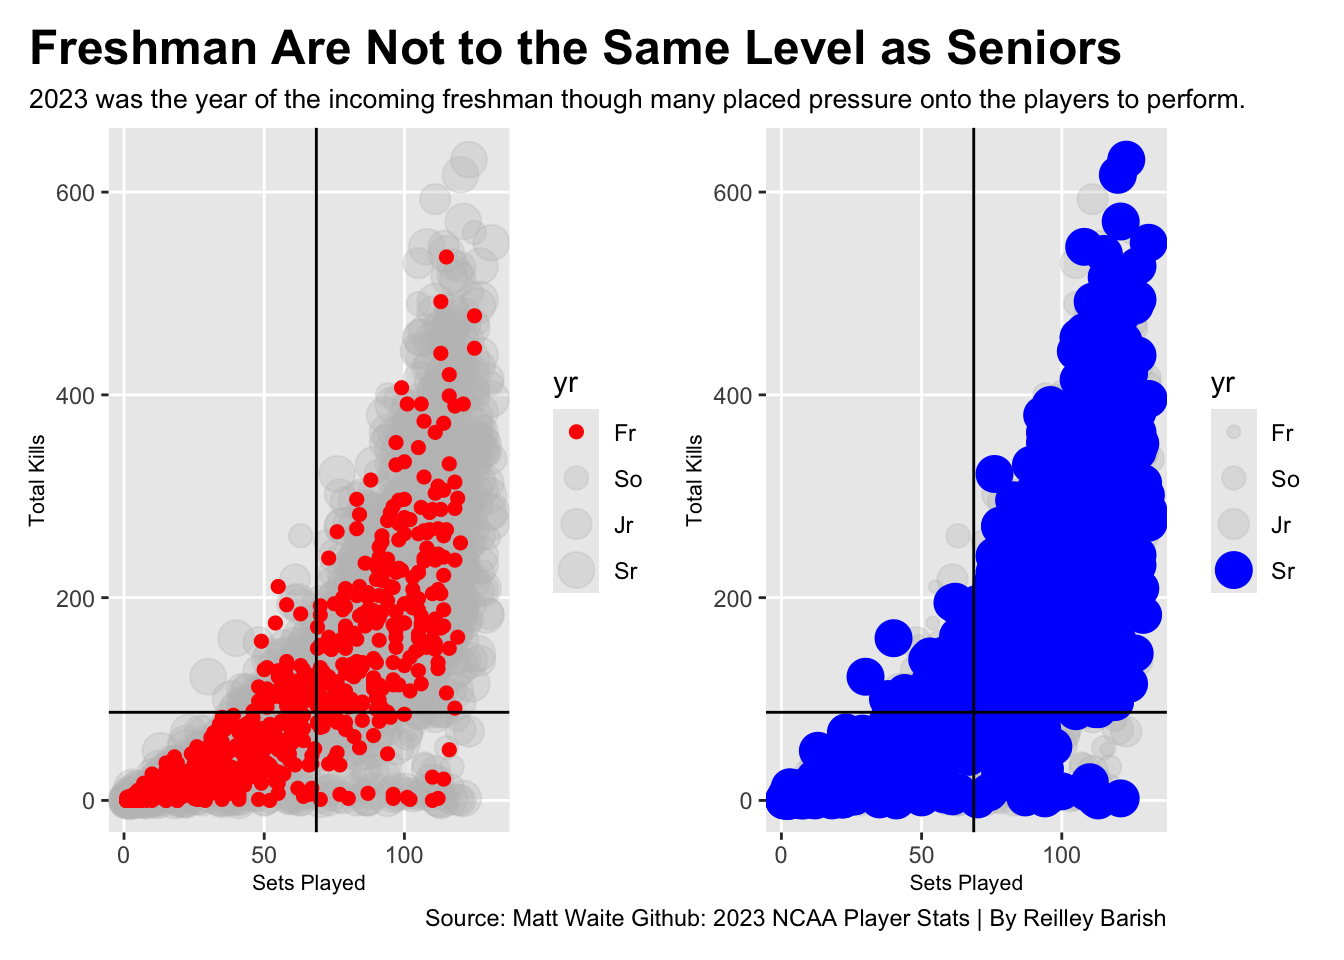
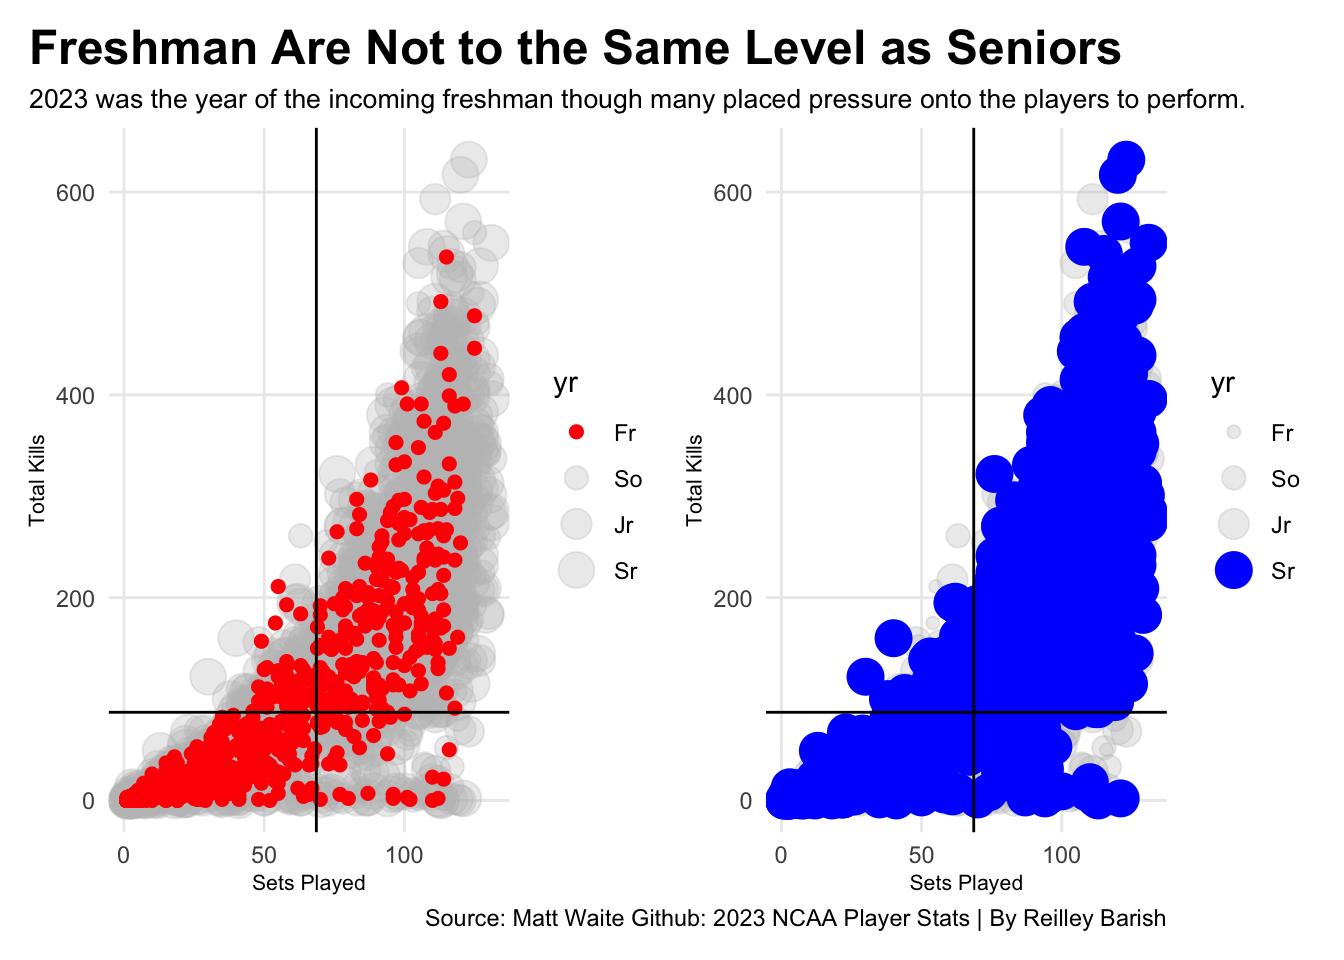
image commit

diff --git a/posts/volleyball-players-2023-kills/index.html b/posts/volleyball-players-2023-kills/index.html
@@ -365,28 +365,30 @@ pre > code.sourceCode > span > a:first-child::before { text-decoration: underlin
 <span id="cb4-17"><a href="#cb4-17" aria-hidden="true" tabindex="-1"></a>    <span class="at">title =</span> <span class="st">"Freshman Are Not to the Same Level as Seniors "</span>,</span>
 <span id="cb4-18"><a href="#cb4-18" aria-hidden="true" tabindex="-1"></a>    <span class="at">subtitle =</span> <span class="st">"2023 was the year of the incoming freshman though many placed pressure onto the players to perform."</span></span>
 <span id="cb4-19"><a href="#cb4-19" aria-hidden="true" tabindex="-1"></a>  ) <span class="sc">+</span></span>
-<span id="cb4-20"><a href="#cb4-20" aria-hidden="true" tabindex="-1"></a>  custheme</span>
-<span id="cb4-21"><a href="#cb4-21" aria-hidden="true" tabindex="-1"></a></span>
-<span id="cb4-22"><a href="#cb4-22" aria-hidden="true" tabindex="-1"></a>bc2<span class="ot">&lt;-</span><span class="fu">ggplot</span>() <span class="sc">+</span> </span>
-<span id="cb4-23"><a href="#cb4-23" aria-hidden="true" tabindex="-1"></a>  <span class="fu">geom_point</span>(</span>
-<span id="cb4-24"><a href="#cb4-24" aria-hidden="true" tabindex="-1"></a>    <span class="at">data=</span>year,</span>
-<span id="cb4-25"><a href="#cb4-25" aria-hidden="true" tabindex="-1"></a>    <span class="fu">aes</span>(<span class="at">x=</span>s, <span class="at">y=</span>kills, <span class="at">size=</span>yr), </span>
-<span id="cb4-26"><a href="#cb4-26" aria-hidden="true" tabindex="-1"></a>    <span class="at">color=</span><span class="st">"grey"</span>, </span>
-<span id="cb4-27"><a href="#cb4-27" aria-hidden="true" tabindex="-1"></a>    <span class="at">alpha=</span>.<span class="dv">3</span>)<span class="sc">+</span></span>
-<span id="cb4-28"><a href="#cb4-28" aria-hidden="true" tabindex="-1"></a>  <span class="fu">geom_point</span>(</span>
-<span id="cb4-29"><a href="#cb4-29" aria-hidden="true" tabindex="-1"></a>    <span class="at">data =</span> seniors,</span>
-<span id="cb4-30"><a href="#cb4-30" aria-hidden="true" tabindex="-1"></a>    <span class="fu">aes</span>(<span class="at">x =</span> s, <span class="at">y =</span> kills, <span class="at">size =</span> yr),</span>
-<span id="cb4-31"><a href="#cb4-31" aria-hidden="true" tabindex="-1"></a>    <span class="at">color =</span> <span class="st">"blue"</span></span>
-<span id="cb4-32"><a href="#cb4-32" aria-hidden="true" tabindex="-1"></a>  ) <span class="sc">+</span></span>
-<span id="cb4-33"><a href="#cb4-33" aria-hidden="true" tabindex="-1"></a>   <span class="fu">geom_vline</span>(<span class="at">xintercept =</span> <span class="fl">68.59631</span>) <span class="sc">+</span></span>
-<span id="cb4-34"><a href="#cb4-34" aria-hidden="true" tabindex="-1"></a>   <span class="fu">geom_hline</span>(<span class="at">yintercept =</span> <span class="fl">86.94779</span>) <span class="sc">+</span></span>
-<span id="cb4-35"><a href="#cb4-35" aria-hidden="true" tabindex="-1"></a>  <span class="fu">labs</span>(</span>
-<span id="cb4-36"><a href="#cb4-36" aria-hidden="true" tabindex="-1"></a>    <span class="at">x =</span> <span class="st">"Sets Played"</span>,</span>
-<span id="cb4-37"><a href="#cb4-37" aria-hidden="true" tabindex="-1"></a>    <span class="at">y =</span> <span class="st">"Total Kills"</span>,</span>
-<span id="cb4-38"><a href="#cb4-38" aria-hidden="true" tabindex="-1"></a>    <span class="at">caption =</span> <span class="st">"Source: Matt Waite Github: 2023 NCAA Player Stats | By Reilley Barish"</span>)<span class="sc">+</span></span>
-<span id="cb4-39"><a href="#cb4-39" aria-hidden="true" tabindex="-1"></a>  custheme</span>
-<span id="cb4-40"><a href="#cb4-40" aria-hidden="true" tabindex="-1"></a></span>
-<span id="cb4-41"><a href="#cb4-41" aria-hidden="true" tabindex="-1"></a>bc1 <span class="sc">+</span> bc2</span></code><button title="Copy to Clipboard" class="code-copy-button"><i class="bi"></i></button></pre></div>
+<span id="cb4-20"><a href="#cb4-20" aria-hidden="true" tabindex="-1"></a>  <span class="fu">theme_minimal</span>() <span class="sc">+</span></span>
+<span id="cb4-21"><a href="#cb4-21" aria-hidden="true" tabindex="-1"></a>  custheme</span>
+<span id="cb4-22"><a href="#cb4-22" aria-hidden="true" tabindex="-1"></a></span>
+<span id="cb4-23"><a href="#cb4-23" aria-hidden="true" tabindex="-1"></a>bc2<span class="ot">&lt;-</span><span class="fu">ggplot</span>() <span class="sc">+</span> </span>
+<span id="cb4-24"><a href="#cb4-24" aria-hidden="true" tabindex="-1"></a>  <span class="fu">geom_point</span>(</span>
+<span id="cb4-25"><a href="#cb4-25" aria-hidden="true" tabindex="-1"></a>    <span class="at">data=</span>year,</span>
+<span id="cb4-26"><a href="#cb4-26" aria-hidden="true" tabindex="-1"></a>    <span class="fu">aes</span>(<span class="at">x=</span>s, <span class="at">y=</span>kills, <span class="at">size=</span>yr), </span>
+<span id="cb4-27"><a href="#cb4-27" aria-hidden="true" tabindex="-1"></a>    <span class="at">color=</span><span class="st">"grey"</span>, </span>
+<span id="cb4-28"><a href="#cb4-28" aria-hidden="true" tabindex="-1"></a>    <span class="at">alpha=</span>.<span class="dv">3</span>)<span class="sc">+</span></span>
+<span id="cb4-29"><a href="#cb4-29" aria-hidden="true" tabindex="-1"></a>  <span class="fu">geom_point</span>(</span>
+<span id="cb4-30"><a href="#cb4-30" aria-hidden="true" tabindex="-1"></a>    <span class="at">data =</span> seniors,</span>
+<span id="cb4-31"><a href="#cb4-31" aria-hidden="true" tabindex="-1"></a>    <span class="fu">aes</span>(<span class="at">x =</span> s, <span class="at">y =</span> kills, <span class="at">size =</span> yr),</span>
+<span id="cb4-32"><a href="#cb4-32" aria-hidden="true" tabindex="-1"></a>    <span class="at">color =</span> <span class="st">"blue"</span></span>
+<span id="cb4-33"><a href="#cb4-33" aria-hidden="true" tabindex="-1"></a>  ) <span class="sc">+</span></span>
+<span id="cb4-34"><a href="#cb4-34" aria-hidden="true" tabindex="-1"></a>   <span class="fu">geom_vline</span>(<span class="at">xintercept =</span> <span class="fl">68.59631</span>) <span class="sc">+</span></span>
+<span id="cb4-35"><a href="#cb4-35" aria-hidden="true" tabindex="-1"></a>   <span class="fu">geom_hline</span>(<span class="at">yintercept =</span> <span class="fl">86.94779</span>) <span class="sc">+</span></span>
+<span id="cb4-36"><a href="#cb4-36" aria-hidden="true" tabindex="-1"></a>  <span class="fu">labs</span>(</span>
+<span id="cb4-37"><a href="#cb4-37" aria-hidden="true" tabindex="-1"></a>    <span class="at">x =</span> <span class="st">"Sets Played"</span>,</span>
+<span id="cb4-38"><a href="#cb4-38" aria-hidden="true" tabindex="-1"></a>    <span class="at">y =</span> <span class="st">"Total Kills"</span>,</span>
+<span id="cb4-39"><a href="#cb4-39" aria-hidden="true" tabindex="-1"></a>    <span class="at">caption =</span> <span class="st">"Source: Matt Waite Github: 2023 NCAA Player Stats | By Reilley Barish"</span>)<span class="sc">+</span></span>
+<span id="cb4-40"><a href="#cb4-40" aria-hidden="true" tabindex="-1"></a>  <span class="fu">theme_minimal</span>() <span class="sc">+</span></span>
+<span id="cb4-41"><a href="#cb4-41" aria-hidden="true" tabindex="-1"></a>  custheme</span>
+<span id="cb4-42"><a href="#cb4-42" aria-hidden="true" tabindex="-1"></a></span>
+<span id="cb4-43"><a href="#cb4-43" aria-hidden="true" tabindex="-1"></a>bc1 <span class="sc">+</span> bc2</span></code><button title="Copy to Clipboard" class="code-copy-button"><i class="bi"></i></button></pre></div>
 </details>
 <div class="cell-output-display">
 <div>
@@ -421,28 +423,30 @@ pre > code.sourceCode > span > a:first-child::before { text-decoration: underlin
 <span id="cb5-17"><a href="#cb5-17" aria-hidden="true" tabindex="-1"></a>    <span class="at">title =</span> <span class="st">"The Battle of the Middle Grades"</span>,</span>
 <span id="cb5-18"><a href="#cb5-18" aria-hidden="true" tabindex="-1"></a>    <span class="at">subtitle =</span> <span class="st">"How the two middle grades, sophomores and juniors, measure up to each other."</span></span>
 <span id="cb5-19"><a href="#cb5-19" aria-hidden="true" tabindex="-1"></a>  ) <span class="sc">+</span></span>
-<span id="cb5-20"><a href="#cb5-20" aria-hidden="true" tabindex="-1"></a>  custheme</span>
-<span id="cb5-21"><a href="#cb5-21" aria-hidden="true" tabindex="-1"></a></span>
-<span id="cb5-22"><a href="#cb5-22" aria-hidden="true" tabindex="-1"></a>bc4 <span class="ot">&lt;-</span><span class="fu">ggplot</span>() <span class="sc">+</span> </span>
-<span id="cb5-23"><a href="#cb5-23" aria-hidden="true" tabindex="-1"></a>  <span class="fu">geom_point</span>(</span>
-<span id="cb5-24"><a href="#cb5-24" aria-hidden="true" tabindex="-1"></a>    <span class="at">data=</span>year,</span>
-<span id="cb5-25"><a href="#cb5-25" aria-hidden="true" tabindex="-1"></a>    <span class="fu">aes</span>(<span class="at">x=</span>s, <span class="at">y=</span>kills, <span class="at">size=</span>yr), </span>
-<span id="cb5-26"><a href="#cb5-26" aria-hidden="true" tabindex="-1"></a>    <span class="at">color=</span><span class="st">"grey"</span>, </span>
-<span id="cb5-27"><a href="#cb5-27" aria-hidden="true" tabindex="-1"></a>    <span class="at">alpha=</span>.<span class="dv">3</span>)<span class="sc">+</span></span>
-<span id="cb5-28"><a href="#cb5-28" aria-hidden="true" tabindex="-1"></a>  <span class="fu">geom_point</span>(</span>
-<span id="cb5-29"><a href="#cb5-29" aria-hidden="true" tabindex="-1"></a>    <span class="at">data =</span> juniors,</span>
-<span id="cb5-30"><a href="#cb5-30" aria-hidden="true" tabindex="-1"></a>    <span class="fu">aes</span>(<span class="at">x =</span> s, <span class="at">y =</span> kills, <span class="at">size =</span> yr),</span>
-<span id="cb5-31"><a href="#cb5-31" aria-hidden="true" tabindex="-1"></a>    <span class="at">color =</span> <span class="st">"darkgreen"</span></span>
-<span id="cb5-32"><a href="#cb5-32" aria-hidden="true" tabindex="-1"></a>  ) <span class="sc">+</span></span>
-<span id="cb5-33"><a href="#cb5-33" aria-hidden="true" tabindex="-1"></a>   <span class="fu">geom_vline</span>(<span class="at">xintercept =</span> <span class="fl">68.59631</span>) <span class="sc">+</span></span>
-<span id="cb5-34"><a href="#cb5-34" aria-hidden="true" tabindex="-1"></a>   <span class="fu">geom_hline</span>(<span class="at">yintercept =</span> <span class="fl">86.94779</span>) <span class="sc">+</span></span>
-<span id="cb5-35"><a href="#cb5-35" aria-hidden="true" tabindex="-1"></a>  <span class="fu">labs</span>(</span>
-<span id="cb5-36"><a href="#cb5-36" aria-hidden="true" tabindex="-1"></a>    <span class="at">x =</span> <span class="st">"Sets Played"</span>,</span>
-<span id="cb5-37"><a href="#cb5-37" aria-hidden="true" tabindex="-1"></a>    <span class="at">y =</span> <span class="st">"Total Kills"</span>,</span>
-<span id="cb5-38"><a href="#cb5-38" aria-hidden="true" tabindex="-1"></a>    <span class="at">caption =</span> <span class="st">"Source: Matt Waite Github: 2023 NCAA Player Stats | By Reilley Barish"</span></span>
-<span id="cb5-39"><a href="#cb5-39" aria-hidden="true" tabindex="-1"></a>  ) <span class="sc">+</span></span>
-<span id="cb5-40"><a href="#cb5-40" aria-hidden="true" tabindex="-1"></a>  custheme</span>
-<span id="cb5-41"><a href="#cb5-41" aria-hidden="true" tabindex="-1"></a>bc3<span class="sc">+</span>bc4</span></code><button title="Copy to Clipboard" class="code-copy-button"><i class="bi"></i></button></pre></div>
+<span id="cb5-20"><a href="#cb5-20" aria-hidden="true" tabindex="-1"></a>  <span class="fu">theme_minimal</span>() <span class="sc">+</span></span>
+<span id="cb5-21"><a href="#cb5-21" aria-hidden="true" tabindex="-1"></a>  custheme</span>
+<span id="cb5-22"><a href="#cb5-22" aria-hidden="true" tabindex="-1"></a></span>
+<span id="cb5-23"><a href="#cb5-23" aria-hidden="true" tabindex="-1"></a>bc4 <span class="ot">&lt;-</span><span class="fu">ggplot</span>() <span class="sc">+</span> </span>
+<span id="cb5-24"><a href="#cb5-24" aria-hidden="true" tabindex="-1"></a>  <span class="fu">geom_point</span>(</span>
+<span id="cb5-25"><a href="#cb5-25" aria-hidden="true" tabindex="-1"></a>    <span class="at">data=</span>year,</span>
+<span id="cb5-26"><a href="#cb5-26" aria-hidden="true" tabindex="-1"></a>    <span class="fu">aes</span>(<span class="at">x=</span>s, <span class="at">y=</span>kills, <span class="at">size=</span>yr), </span>
+<span id="cb5-27"><a href="#cb5-27" aria-hidden="true" tabindex="-1"></a>    <span class="at">color=</span><span class="st">"grey"</span>, </span>
+<span id="cb5-28"><a href="#cb5-28" aria-hidden="true" tabindex="-1"></a>    <span class="at">alpha=</span>.<span class="dv">3</span>)<span class="sc">+</span></span>
+<span id="cb5-29"><a href="#cb5-29" aria-hidden="true" tabindex="-1"></a>  <span class="fu">geom_point</span>(</span>
+<span id="cb5-30"><a href="#cb5-30" aria-hidden="true" tabindex="-1"></a>    <span class="at">data =</span> juniors,</span>
+<span id="cb5-31"><a href="#cb5-31" aria-hidden="true" tabindex="-1"></a>    <span class="fu">aes</span>(<span class="at">x =</span> s, <span class="at">y =</span> kills, <span class="at">size =</span> yr),</span>
+<span id="cb5-32"><a href="#cb5-32" aria-hidden="true" tabindex="-1"></a>    <span class="at">color =</span> <span class="st">"darkgreen"</span></span>
+<span id="cb5-33"><a href="#cb5-33" aria-hidden="true" tabindex="-1"></a>  ) <span class="sc">+</span></span>
+<span id="cb5-34"><a href="#cb5-34" aria-hidden="true" tabindex="-1"></a>   <span class="fu">geom_vline</span>(<span class="at">xintercept =</span> <span class="fl">68.59631</span>) <span class="sc">+</span></span>
+<span id="cb5-35"><a href="#cb5-35" aria-hidden="true" tabindex="-1"></a>   <span class="fu">geom_hline</span>(<span class="at">yintercept =</span> <span class="fl">86.94779</span>) <span class="sc">+</span></span>
+<span id="cb5-36"><a href="#cb5-36" aria-hidden="true" tabindex="-1"></a>  <span class="fu">labs</span>(</span>
+<span id="cb5-37"><a href="#cb5-37" aria-hidden="true" tabindex="-1"></a>    <span class="at">x =</span> <span class="st">"Sets Played"</span>,</span>
+<span id="cb5-38"><a href="#cb5-38" aria-hidden="true" tabindex="-1"></a>    <span class="at">y =</span> <span class="st">"Total Kills"</span>,</span>
+<span id="cb5-39"><a href="#cb5-39" aria-hidden="true" tabindex="-1"></a>    <span class="at">caption =</span> <span class="st">"Source: Matt Waite Github: 2023 NCAA Player Stats | By Reilley Barish"</span></span>
+<span id="cb5-40"><a href="#cb5-40" aria-hidden="true" tabindex="-1"></a>  ) <span class="sc">+</span></span>
+<span id="cb5-41"><a href="#cb5-41" aria-hidden="true" tabindex="-1"></a>  <span class="fu">theme_minimal</span>() <span class="sc">+</span></span>
+<span id="cb5-42"><a href="#cb5-42" aria-hidden="true" tabindex="-1"></a>  custheme</span>
+<span id="cb5-43"><a href="#cb5-43" aria-hidden="true" tabindex="-1"></a>bc3<span class="sc">+</span>bc4</span></code><button title="Copy to Clipboard" class="code-copy-button"><i class="bi"></i></button></pre></div>
 </details>
 <div class="cell-output-display">
 <div>

diff --git a/index.html b/index.html
@@ -205,10 +205,10 @@ window.Quarto = {
 
 <div class="quarto-listing quarto-listing-container-default" id="listing-listing">
 <div class="list quarto-listing-default">
-<div class="quarto-post image-right" data-index="0" data-categories="dm9sbGV5YmFsbCUyQ25jYWElMkNmaW5hbCUyMGZvdXI=" data-listing-date-sort="1743483600000" data-listing-file-modified-sort="1744691712962" data-listing-date-modified-sort="NaN" data-listing-reading-time-sort="11" data-listing-word-count-sort="2115">
+<div class="quarto-post image-right" data-index="0" data-categories="dm9sbGV5YmFsbCUyQ25jYWElMkNmaW5hbCUyMGZvdXI=" data-listing-date-sort="1743483600000" data-listing-file-modified-sort="1744692202495" data-listing-date-modified-sort="NaN" data-listing-reading-time-sort="11" data-listing-word-count-sort="2127">
 <div class="thumbnail">
 <p><a href="./posts/volleyball-players-2023-kills/index.html" class="no-external"></a></p><a href="./posts/volleyball-players-2023-kills/index.html" class="no-external">
-<p><img loading="lazy" src="./posts/volleyball-players-2023-kills/image.png" class="thumbnail-image"></p>
+<p><img loading="lazy" src="./posts/volleyball-players-2023-kills/volleyballday.jpeg" class="thumbnail-image"></p>
 </a><p><a href="./posts/volleyball-players-2023-kills/index.html" class="no-external"></a></p>
 </div>
 <div class="body">
